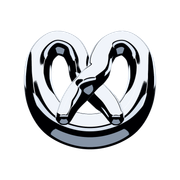
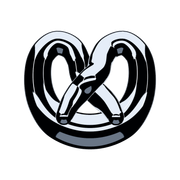
Render the chrome mark twice, lit for white and for black
Chrome only shows what it reflects, so one render can't stand out on both:
bright sky reflections vanished into white pages and the dark ground into
black ones. The white-page version sits in a dark studio so its outline
reads crisp; the black-page version has a bright backdrop that lights its
edge. The nav swaps them with the theme, and the tab icons follow the
system colour scheme.

diff --git a/app/logo-render/logo-render.tsx b/app/logo-render/logo-render.tsx
@@ -2,7 +2,7 @@
 
 import { Environment, Lightformer } from "@react-three/drei";
 import { Canvas } from "@react-three/fiber";
-import { useMemo } from "react";
+import { useMemo, useState } from "react";
 import { MeshPhysicalMaterial, NeutralToneMapping } from "three";
 import { createPretzelGeometry } from "../book/pretzel-geometry";
 
@@ -19,7 +19,40 @@ function Mark() {
   </group>;
 }
 
+// Chrome is only its reflections, so each background gets its own studio.
+// The silhouette edge reflects what's behind the pretzel, and faces turned
+// to the viewer reflect what's behind the camera.
+function OnWhite() {
+  // Dark all round, so the outline and the undersides read crisp on paper;
+  // a soft grey sky and a few hard strips for the shine.
+  return <Environment resolution={1024} frames={1}>
+    <color attach="background" args={["#08090b"]} />
+    <Lightformer form="rect" intensity={2} color="#d6dce4" position={[0, 6, 0]} rotation-x={Math.PI / 2} scale={[13, 13, 1]} />
+    <Lightformer form="rect" intensity={1.8} color="#e4eaf1" position={[0, 1.2, 6]} scale={[20, 2.4, 1]} target={[0, 0, 0]} />
+    <Lightformer form="rect" intensity={1.2} color="#c3cad3" position={[0, 0, -6]} scale={[6, 3, 1]} />
+    <Lightformer form="rect" intensity={5} position={[-3, 2.5, 3]} scale={[.35, 4, 1]} target={[0, 0, 0]} />
+    <Lightformer form="rect" intensity={4} position={[3.2, 1.5, 2.5]} scale={[.25, 3, 1]} target={[0, 0, 0]} />
+    <Lightformer form="rect" intensity={1} color="#7d8794" position={[0, -5, 1]} rotation-x={-Math.PI / 2} scale={[7, 7, 1]} />
+  </Environment>;
+}
+
+function OnBlack() {
+  // A bright backdrop behind the pretzel lights its outline against black;
+  // a dark band low in front keeps the chrome contrast across its body.
+  return <Environment resolution={1024} frames={1}>
+    <color attach="background" args={["#4a5058"]} />
+    <Lightformer form="rect" intensity={2.4} color="#f4f7fb" position={[0, 6, 0]} rotation-x={Math.PI / 2} scale={[20, 20, 1]} />
+    <Lightformer form="rect" intensity={1.8} color="#e8eef5" position={[0, 0, -6]} scale={[20, 8, 1]} />
+    <Lightformer form="rect" intensity={1} color="#0b0c0e" position={[0, -.6, 6]} scale={[20, 1.8, 1]} target={[0, 0, 0]} />
+    <Lightformer form="rect" intensity={5} position={[-3, 2.5, 3]} scale={[.35, 4, 1]} target={[0, 0, 0]} />
+    <Lightformer form="rect" intensity={4} position={[3.2, 1.5, 2.5]} scale={[.25, 3, 1]} target={[0, 0, 0]} />
+    <Lightformer form="rect" intensity={2} color="#9aa4b1" position={[0, -5, 1]} rotation-x={-Math.PI / 2} scale={[9, 9, 1]} />
+  </Environment>;
+}
+
 export default function LogoRender() {
+  // ?on=black renders the version for dark backgrounds; anything else, white.
+  const [onBlack] = useState(() => typeof window !== "undefined" && new URLSearchParams(window.location.search).get("on") === "black");
   return <div style={{ width: 1024, height: 1024, background: "transparent" }}>
     <Canvas
       id="logo"
@@ -29,18 +62,7 @@ export default function LogoRender() {
       gl={{ alpha: true, antialias: true, preserveDrawingBuffer: true }}
       onCreated={({ gl }) => { gl.setClearColor(0x000000, 0); gl.toneMapping = NeutralToneMapping; }}
     >
-      {/* Chrome is only its reflections. A classic chrome studio: bright sky
-          overhead, dark ground below, a hard horizon between them, and a few
-          strip lights for the sharp highlights. */}
-      <Environment resolution={1024} frames={1}>
-        <color attach="background" args={["#0a0a0c"]} />
-        <Lightformer form="rect" intensity={2.2} color="#f4f7fb" position={[0, 6, 0]} rotation-x={Math.PI / 2} scale={[20, 20, 1]} />
-        <Lightformer form="rect" intensity={1.6} color="#dfe6ef" position={[0, 1.2, -6]} scale={[20, 2.6, 1]} />
-        <Lightformer form="rect" intensity={1.2} color="#dfe6ef" position={[0, 1.2, 6]} scale={[20, 2.2, 1]} target={[0, 0, 0]} />
-        <Lightformer form="rect" intensity={5} position={[-3, 2.5, 3]} scale={[.35, 4, 1]} target={[0, 0, 0]} />
-        <Lightformer form="rect" intensity={4} position={[3.2, 1.5, 2.5]} scale={[.25, 3, 1]} target={[0, 0, 0]} />
-        <Lightformer form="rect" intensity={1.5} color="#7d8794" position={[0, -5, 1]} rotation-x={-Math.PI / 2} scale={[9, 9, 1]} />
-      </Environment>
+      {onBlack ? <OnBlack /> : <OnWhite />}
       <Mark />
     </Canvas>
   </div>;

diff --git a/app/globals.css b/app/globals.css
@@ -207,12 +207,16 @@ button:disabled { cursor: default; }
 
 /* === SITE HEADER === */
 .site-header-inner { display: flex; align-items: center; justify-content: space-between; gap: var(--space-5); padding-top: 22px; padding-bottom: var(--space-2); }
-/* The mark is a chrome balloon pretzel (scripts/render-logo.mjs writes
-   /pretzel-chrome.png). It skips the image optimiser, whose cache kept
-   serving an older mark under the same name. Silver reads on paper and in
-   dark mode alike; hovering squishes it like a jelly charm. */
+/* The mark is a chrome balloon pretzel (scripts/render-logo.mjs). Chrome
+   shows what it reflects, so it's rendered twice, lit to stand out on white
+   and on black, and the theme picks one. Served directly: the image
+   optimiser's cache kept serving older marks. Hovering squishes it like a
+   jelly charm. */
 .site-mark { display: inline-flex; width: 44px; height: 44px; }
+.site-mark-dark, html[data-theme="dark"] .site-mark-light { display: none; }
+html[data-theme="dark"] .site-mark-dark { display: block; }
 .site-mark img { width: 100%; height: 100%; object-fit: contain; filter: drop-shadow(0 2px 3px rgba(0, 0, 0, .18)); transform-origin: 50% 85%; }
+html[data-theme="dark"] .site-mark img { filter: none; }
 .site-mark:hover img, .site-mark:focus-visible img { animation: mark-squish .7s cubic-bezier(.3, .7, .3, 1); }
 @keyframes mark-squish {
   0% { transform: scale(1, 1); }

diff --git a/app/site-nav.tsx b/app/site-nav.tsx
@@ -10,7 +10,11 @@ export default function SiteNav({ active = null }: Props) {
     <header className="site-header">
       <a href="#main-content" className="skip-link">Skip to content</a>
       <div className="ui-column site-header-inner">
-        <Link href="/" className="site-mark" aria-label="Amy Zhou, home"><Image src="/pretzel-chrome.png" alt="" width={192} height={192} priority unoptimized /></Link>
+        <Link href="/" className="site-mark" aria-label="Amy Zhou, home">
+          {/* Chrome shows what it reflects, so there's a render lit for each theme. */}
+          <Image className="site-mark-light" src="/pretzel-chrome-on-white.png" alt="" width={192} height={192} priority unoptimized />
+          <Image className="site-mark-dark" src="/pretzel-chrome-on-black.png" alt="" width={192} height={192} priority unoptimized />
+        </Link>
         <nav aria-label="Main navigation">
           <Link href="/portfolio" aria-current={active === "portfolio" ? "page" : undefined}>Objects</Link>
           <Link href="/software" aria-current={active === "software" ? "page" : undefined}>Software</Link>

diff --git a/app/layout.tsx b/app/layout.tsx
@@ -67,9 +67,12 @@ export const metadata: Metadata = {
     },
   },
   icons: {
+    // The chrome mark is lit for the tab bar's own colour.
     icon: [
-      { url: "/favicon-32x32.png", sizes: "32x32", type: "image/png" },
-      { url: "/favicon-16x16.png", sizes: "16x16", type: "image/png" },
+      { url: "/favicon-32x32-on-white.png", sizes: "32x32", type: "image/png", media: "(prefers-color-scheme: light)" },
+      { url: "/favicon-16x16-on-white.png", sizes: "16x16", type: "image/png", media: "(prefers-color-scheme: light)" },
+      { url: "/favicon-32x32-on-black.png", sizes: "32x32", type: "image/png", media: "(prefers-color-scheme: dark)" },
+      { url: "/favicon-16x16-on-black.png", sizes: "16x16", type: "image/png", media: "(prefers-color-scheme: dark)" },
     ],
     apple: "/apple-touch-icon.png",
   },
